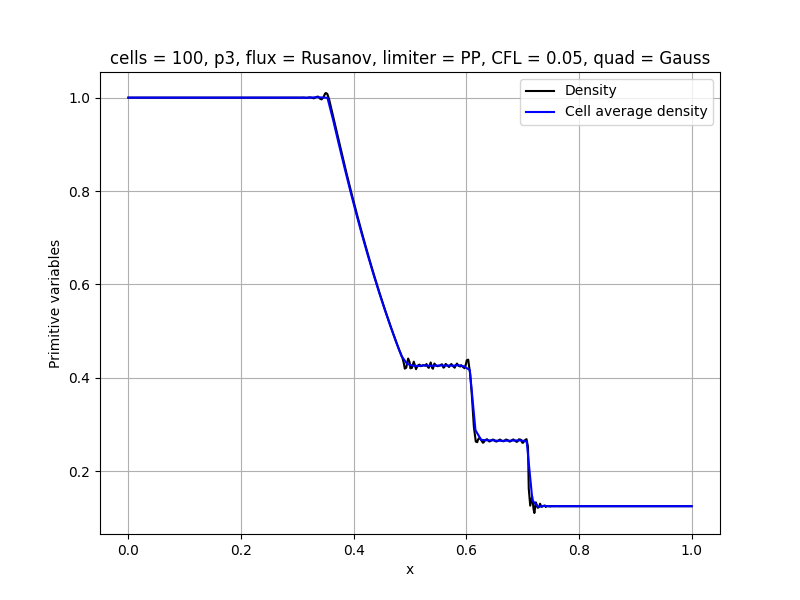
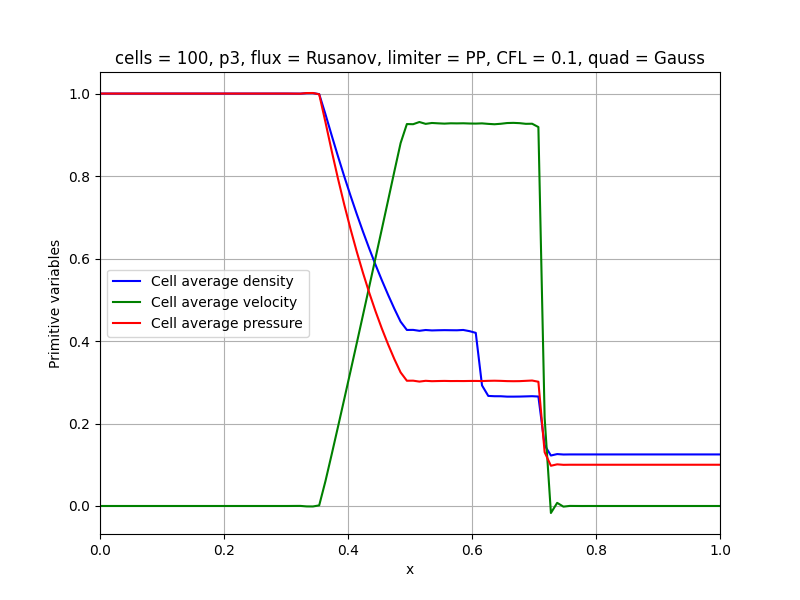
Fixed bug in dt

diff --git a/euler_dev.py b/euler_dev.py
@@ -137,6 +137,14 @@ def flux_pint_coor(x,flux_points):
             x_flux_coord[i,j] = 0.5*(x[i+1]+x[i]) + 0.5*(x[i+1]-x[i])*flux_points[j]
     return x_flux_coord
 
+def lobatto_pint_coor(x,lobatto_points):
+    Ne = x.shape[0]-1
+    nf = len(lobatto_points)
+    x_lobatto_coord = np.zeros((Ne,nf))
+    for i in range(Ne):
+        for j in range(nf):
+            x_lobatto_coord[i,j] = 0.5*(x[i+1]+x[i]) + 0.5*(x[i+1]-x[i])*lobatto_points[j]
+    return x_lobatto_coord
 
 def compute_stiff_matrix2(Mass_matrix,grad_basis_val):
     stiff_matrix = np.zeros_like(Mass_matrix)
@@ -150,14 +158,15 @@ def compute_stiff_matrix2(Mass_matrix,grad_basis_val):
 def compute_dt(dx,primitive,CFL):
     shape = primitive.shape
     gamma = 1.4
-    dt_candidate = np.zeros(shape)
+    dt_candidate = np.zeros((shape[0]*shape[1]))  
+    idx = 0
     for i in range(shape[0]):
         for j in range(shape[1]):
             if(primitive[i,j,2]<0):
                 print("ERROR in", i, j, primitive[i,j,2])
             acoustic = np.sqrt(gamma*primitive[i,j,2]/primitive[i,j,0])
-            dt_candidate = CFL*dx[i]/(acoustic+np.abs(primitive[i,j,1]))
-    dt_candidate = dt_candidate.flatten()
+            dt_candidate[idx] = CFL*dx[i]/(acoustic+np.abs(primitive[i,j,1]))
+            idx += 1
     dt = np.min(dt_candidate)
     return dt
 
@@ -184,7 +193,7 @@ def compute_cell_average(u,primitive_variable,xq_weights,trans_matrix,dx):
         prim_v_cell_average[i,1] = cons_v_cell_average[i,1]/cons_v_cell_average[i,0]
         prim_v_cell_average[i,2] = (gamma-1.0)*(cons_v_cell_average[i,2]-0.5*cons_v_cell_average[i,1]**2/cons_v_cell_average[i,0])
 
-    return cons_v_cell_average, prim_v_cell_average 
+    return cons_v_cell_average, prim_v_cell_average
 
 if __name__ == "__main__":
     jmax = 101
@@ -195,7 +204,7 @@ if __name__ == "__main__":
     time = 0.0
     """if you use Lobatto, approx_order > 0"""
     quad_type = 'Gauss' # 'Gauss' or 'Lobatto'
-    flux_type = 'HLLC' # 'Rusanov' or 'HLLC'
+    flux_type = 'Rusanov' # 'Rusanov' or 'HLLC'
     limiter_type = 'PP' # 'PP' or 'minmod'
     initial = 'sod' # 'sod' or 'contact'
     # number of nodes in each element: At quad points
@@ -208,7 +217,7 @@ if __name__ == "__main__":
     limiter_val2 = np.zeros(num_element)
     du = np.zeros_like(u)
     a = 1.0
-    CFL = 0.05
+    CFL = 0.1
     gamma = 1.4
     flag_p = False
     if(initial == 'shu-osher'):
@@ -224,10 +233,11 @@ if __name__ == "__main__":
     element_trans = transform_mat(x)
     if(quad_type == 'Gauss'):
         xq_points, xq_weights = gauss_legendre_points(Np)
+        x_lobatto_points, x_lobatto_weights = gauss_lobatto_points(Np)
     elif(quad_type == 'Lobatto'):
         xq_points, xq_weights = gauss_lobatto_points(Np)
-    print(sum(xq_weights))
-    print(xq_points)
+    # print(sum(xq_weights))
+    # print(xq_points)
     if(initial == 'sod'):
         u,x_element = init.init_variable_sod(u,x,xq_points)
     elif(initial == 'contact'):
@@ -244,7 +254,9 @@ if __name__ == "__main__":
     Stiff = compute_stiff_matrix(xq_points,xq_weights)
     inverse_M = np.linalg.inv(Mass)
     basis_val_flux_points = init_lag_poly_all(xq_points,flux_points)
+    # print(basis_val_flux_points)
     grad_basis_val_at_nodes = init_lag_poly_grad_all(xq_points,xq_points)
+    # print(grad_basis_val_at_nodes)
     Stiff2 = compute_stiff_matrix2(Mass,grad_basis_val_at_nodes)
     dt = compute_dt(dx,primitive_variable,CFL)
     print("Precompute martices and weights are done")
@@ -252,10 +264,13 @@ if __name__ == "__main__":
     primitive_variable = compute_primitive(u)
     u_flux = np.zeros((num_element, flux_number,3))
     p_flux = np.zeros((num_element, flux_number,3))
+    u_lobatto = np.zeros((num_element, Np, 3))
+    p_lobatto = np.zeros((num_element, Np, 3))
     p_from_u_flux = np.zeros((num_element, flux_number,3))
     # Compute u_flux
     if(quad_type == 'Gauss'):
         u_flux, p_flux = interpolation.compute_flux_point_values(u, primitive_variable, basis_val_flux_points, num_element, flux_number, Np)
+
     elif(quad_type == 'Lobatto'):
         u_flux[:,0,:] = u[:,0,:]
         u_flux[:,1,:] = u[:,-1,:]
@@ -263,6 +278,8 @@ if __name__ == "__main__":
         p_flux[:,1,:] = primitive_variable[:,-1,:]
     p_from_u_flux = compute_primitive(u_flux)
     x_flux_coord = flux_pint_coor(x,flux_points)
+    x_lobatto_coord = lobatto_pint_coor(x,x_lobatto_points)
+    basis_val_lobatto_points = init_lag_poly_all(x_lobatto_points,x_lobatto_points)
     u_flux,u = lim.PP_limiter(u_flux,u,p_from_u_flux,primitive_variable,cons_v_cell_average,prim_v_cell_average,quad_type)
     # plotter.plot(u,x_element,primitive_variable)
     # plotter.plot_cell_average(cons_v_cell_average,prim_v_cell_average,x_cell_average)
@@ -291,7 +308,12 @@ if __name__ == "__main__":
 
             '''Time integration RK2nd 1st step'''
             u = RK2.RK2nd_1st(u,un,primitive_variable,Stiff,flux,basis_val_flux_points,dt,inverse_M,element_trans,num_element,Np)
-            
+            primitive_variable = compute_primitive(u)
+            """test"""
+            # u_lobatto, p_lobatto = interpolation.compute_lobatto_point_values(u, primitive_variable, basis_val_lobatto_points, num_element, flux_number, Np)
+            # u_lobatto[:,0,:] = u_flux[:,0,:]
+            # u_lobatto[:,-1,:] = u_flux[:,-1,:]
+            # cons_v_cell_average, prim_v_cell_average = compute_cell_average(u_lobatto,p_lobatto,x_lobatto_weights,element_trans,dx)
             cons_v_cell_average, prim_v_cell_average = compute_cell_average(u,primitive_variable,xq_weights,element_trans,dx)
             '''Can add some limniters here'''
             if(quad_type == 'Gauss'):
@@ -335,8 +357,12 @@ if __name__ == "__main__":
             
             '''Time integration RK2nd 2nd step'''
             u = RK2.RK2nd_2nd_step(u,u_old,un,primitive_variable,Stiff,flux,basis_val_flux_points,dt,inverse_M,element_trans)
-            primitive_variable_2nd = compute_primitive(u)
-            cons_v_cell_average, prim_v_cell_average = compute_cell_average(u,primitive_variable_2nd,xq_weights,element_trans,dx)
+            primitive_variable = compute_primitive(u)
+            # u_lobatto, p_lobatto = interpolation.compute_lobatto_point_values(u, primitive_variable, basis_val_lobatto_points, num_element, flux_number, Np)
+            # u_lobatto[:,0,:] = u_flux[:,0,:]
+            # u_lobatto[:,-1,:] = u_flux[:,-1,:]
+            # cons_v_cell_average, prim_v_cell_average = compute_cell_average(u_lobatto,p_lobatto,x_lobatto_weights,element_trans,dx)
+            cons_v_cell_average, prim_v_cell_average = compute_cell_average(u,primitive_variable,xq_weights,element_trans,dx)
             if(limiter_type == 'PP'):
                 # Check for negative density or pressure and restart with smaller dt if needed
                 if (cons_v_cell_average[:,0] < 0).any() or (prim_v_cell_average[:,2] < 0).any():
@@ -395,44 +421,44 @@ if __name__ == "__main__":
 
         
 
-    x_coord = x_element.flatten()
-    u_coord = u[:,:,0].flatten()
-    p_coord = primitive_variable[:,:,2].flatten()
-    velo_coord = primitive_variable[:,:,1].flatten()
+        x_coord = x_element.flatten()
+        u_coord = u[:,:,0].flatten()
+        p_coord = primitive_variable[:,:,2].flatten()
+        velo_coord = primitive_variable[:,:,1].flatten()
 
-    # x_coord = x_flux_coord.flatten()
-    # u_coord = p_from_u_flux[:,:,2].flatten()
+        # x_coord = x_flux_coord.flatten()
+        # u_coord = p_from_u_flux[:,:,2].flatten()
 
-    x_cell_average = np.linspace(x_min,x_max,num_element)
+        x_cell_average = np.linspace(x_min,x_max,num_element)
 
-    u_ini_coord = u_ini[:,:,0].flatten()
-    
+        u_ini_coord = u_ini[:,:,0].flatten()
+        
 
-    plt.figure(figsize=(8, 6))
-    # plt.plot(x_coord, u_coord, linestyle='-', color='k', label='Density')
-    # plt.plot(x_coord, p_coord, linestyle='-', color='r', label='Pressure')
-    # plt.plot(x_coord, velo_coord, linestyle='-', color='g', label='Velocity')
-    # plt.plot(x_cell_average,limiter_val1,linestyle='-', color='b', label='Limiter 1')
-    # plt.plot(x_cell_average,limiter_val2,linestyle='-', color='r', label='Limiter 2')
-    
-    plt.plot(x_cell_average, prim_v_cell_average[:,0],linestyle='-', color='b', label='Cell average density')
-    # plt.plot(x_cell_average, prim_v_cell_average[:,1],linestyle='-', color='g', label='Cell average velocity')
-    # plt.plot(x_cell_average, prim_v_cell_average[:,2],linestyle='-', color='r', label='Cell average pressure')
-    # plt.plot(x_coord, u_ini_coord, marker='o', linestyle='-', color='r', label='initial')
-    if (initial == 'shu-osher'):
-        plt.xlim(x_min,x_max)
-        plt.ylim(0,5.0)
-    else:
-        plt.xlim(x_min,x_max)
-        plt.ylim(0.1,1.1)
-    plt.xlabel('x')
-    plt.ylabel('Primitive variables')
-    plt.title('cells = '+str(jmax-1)+', p'+str(approx_order)+', flux = '+flux_type+', limiter = '+limiter_type + ', CFL = '+str(CFL)+', quad = '+quad_type)
-    plt.legend()
-    plt.grid(True)
-    plt.savefig('./data/'+str(initial)+'_'+str(flux_type)+'_'+str(limiter_type)+'_p'+str(approx_order)+'_'+str(quad_type)+'.png')
-    
-    plt.show()
+        plt.figure(figsize=(8, 6))
+        # plt.plot(x_coord, u_coord, linestyle='-', color='k', label='Density')
+        # plt.plot(x_coord, p_coord, linestyle='-', color='r', label='Pressure')
+        # plt.plot(x_coord, velo_coord, linestyle='-', color='g', label='Velocity')
+        # plt.plot(x_cell_average,limiter_val1,linestyle='-', color='b', label='Limiter 1')
+        # plt.plot(x_cell_average,limiter_val2,linestyle='-', color='r', label='Limiter 2')
+        
+        plt.plot(x_cell_average, prim_v_cell_average[:,0],linestyle='-', color='b', label='Cell average density')
+        plt.plot(x_cell_average, prim_v_cell_average[:,1],linestyle='-', color='g', label='Cell average velocity')
+        plt.plot(x_cell_average, prim_v_cell_average[:,2],linestyle='-', color='r', label='Cell average pressure')
+        # plt.plot(x_coord, u_ini_coord, marker='o', linestyle='-', color='r', label='initial')
+        if (initial == 'shu-osher'):
+            plt.xlim(x_min,x_max)
+            plt.ylim(0,5.0)
+        else:
+            plt.xlim(x_min,x_max)
+            # plt.ylim(0,1.1)
+        plt.xlabel('x')
+        plt.ylabel('Primitive variables')
+        plt.title('cells = '+str(jmax-1)+', p'+str(approx_order)+', flux = '+flux_type+', limiter = '+limiter_type + ', CFL = '+str(CFL)+', quad = '+quad_type)
+        plt.legend()
+        plt.grid(True)
+        plt.savefig('./data/'+str(initial)+'_'+str(flux_type)+'_'+str(limiter_type)+'_p'+str(approx_order)+'_'+str(quad_type)+'.png')
+        
+        plt.show()
 
 
 

diff --git a/limiters.py b/limiters.py
@@ -1,7 +1,16 @@
 import numpy as np
 import euler as el
 
-
+def compute_primitive(u):
+    u_shape = u.shape
+    primitive_variable = np.zeros_like(u)
+    gamma =1.4
+    for i in range(u_shape[0]):
+        for j in range(u_shape[1]):
+            primitive_variable[i,j,0] = u[i,j,0]
+            primitive_variable[i,j,1] = u[i,j,1]/u[i,j,0]
+            primitive_variable[i,j,2] = (gamma-1.0)*(u[i,j,2]-0.5*u[i,j,1]**2/u[i,j,0])
+    return primitive_variable
 
 def trunc(a, decimals=8):
         '''
@@ -26,24 +35,28 @@ def PP_limiter_Lobatto(u,primitive_variable,cons_v_cell_av,prim_v_cell_av,limite
     u1 = u.copy()
     u2 = u.copy()
     RES_TOL = 1.e-20
-    for i in range(u_shape[0]):
+    for i in range(u_shape[0]): # element loop
         rho_bar = prim_v_cell_av[i,0]
         theta1 = np.abs((rho_bar-RES_TOL)/(rho_bar-u[i,:,0]+RES_TOL))
         theta =  trunc(np.minimum(1.0, np.min(theta1)))
         limiter_val1[i] = theta
-        for j in range(u_shape[1]):
-            u1[i,j,:] = theta*u[i,j,:] + (1.0-theta)*cons_v_cell_av[i,:]
-    primitive_variable2 = el.compute_primitive(u1)
+        for j in range(u_shape[1]): # node loop
+            u1[i,j,0] = theta*u[i,j,0] + (1.0-theta)*cons_v_cell_av[i,0]
+    primitive_variable2 = compute_primitive(u1)
 
-    for i in range(u_shape[0]):
+    for i in range(u_shape[0]): # element loop
         p_bar = prim_v_cell_av[i,2]
         theta1 = np.abs((p_bar)/(p_bar-primitive_variable2[i,:,2]+RES_TOL))
         theta =  trunc(np.minimum(1.0, np.min(theta1)))
-        if(theta<1.0):
-            print("LIMITER",theta,i)
         limiter_val2[i] = theta
         for j in range(u_shape[1]):
-            u[i,j,:] = theta*u[i,j,:] + (1.0-theta)*cons_v_cell_av[i,:]
+            
+            u[i,j,:] = theta*u1[i,j,:] + (1.0-theta)*cons_v_cell_av[i,:]
+            if(theta<1.0):
+                print("LIMITER",theta,i,j)
+                print(u[i,j,0])
+                print(u1[i,j,0])
+                print(cons_v_cell_av[i,0])
 
 
 def PP_limiter(u_flux,u,p_from_u_flux,primitive_variable,cons_v_cell_av,prim_v_cell_av,quad_type):

diff --git a/interpolation.py b/interpolation.py
@@ -16,3 +16,12 @@ def compute_flux_point_values(u, primitive_variable, basis_val_flux_points, num_
     p_flux = np.einsum('ijk,jl->ilk', p_reshaped, basis_val_flux_points)
     
     return u_flux, p_flux
+
+def compute_lobatto_point_values(u, primitive_variable, basis_val_lobatto_points, num_element, flux_number, Np):
+    u_reshaped = u.reshape(num_element, Np, 3)
+    p_reshaped = primitive_variable.reshape(num_element, Np, 3)
+    
+    u_lobatto = np.einsum('ijk,jl->ilk', u_reshaped, basis_val_lobatto_points)
+    p_lobatto = np.einsum('ijk,jl->ilk', p_reshaped, basis_val_lobatto_points)
+    
+    return u_lobatto, p_lobatto

diff --git a/flx.py b/flx.py
@@ -156,7 +156,7 @@ def Rusanov_lobatto(u,p_from_u, jmax,time_step):
         rhoR = u[i  ,0,0]
         uL = p_from_u[i-1,-1,1]
         uR = p_from_u[i,  0,1]
-        pL = p_from_u[i-1,1,2]
+        pL = p_from_u[i-1,-1,2]
         pR = p_from_u[i,  0,2]
         fL = [rhoL*uL,rhoL*uL**2+pL, (eL+pL)*uL]
         fR = [rhoR*uR,rhoR*uR**2+pR, (eR+pR)*uR]
